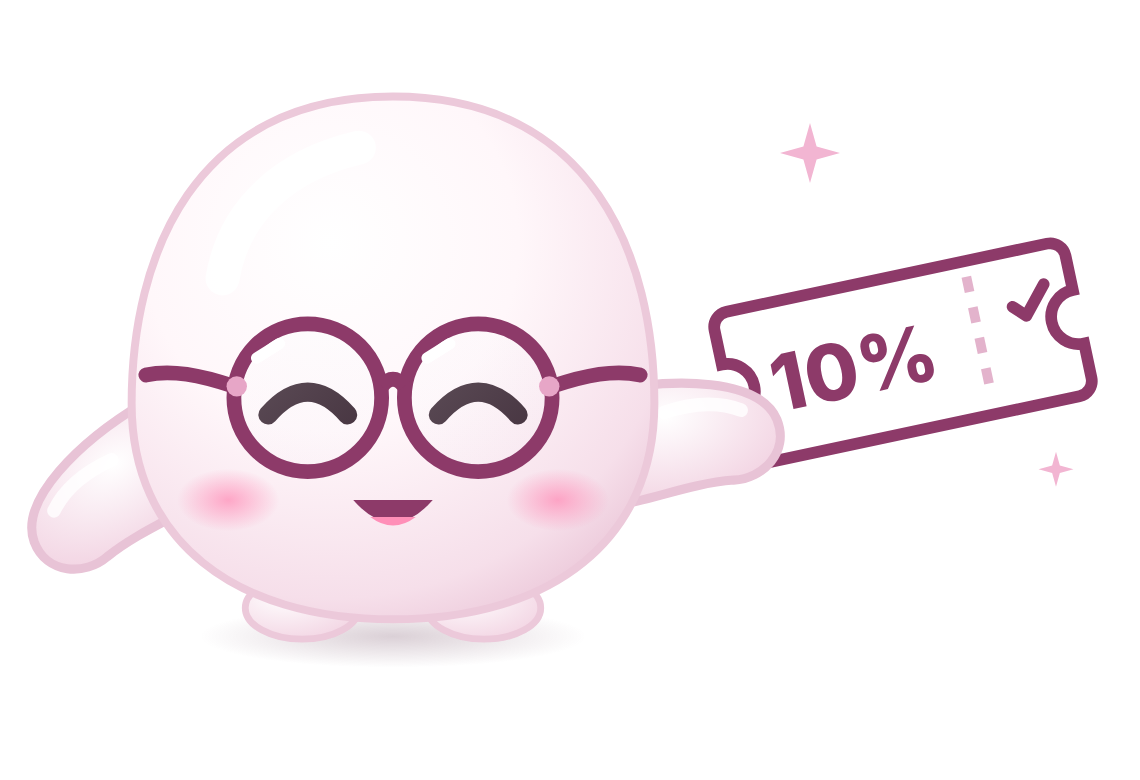
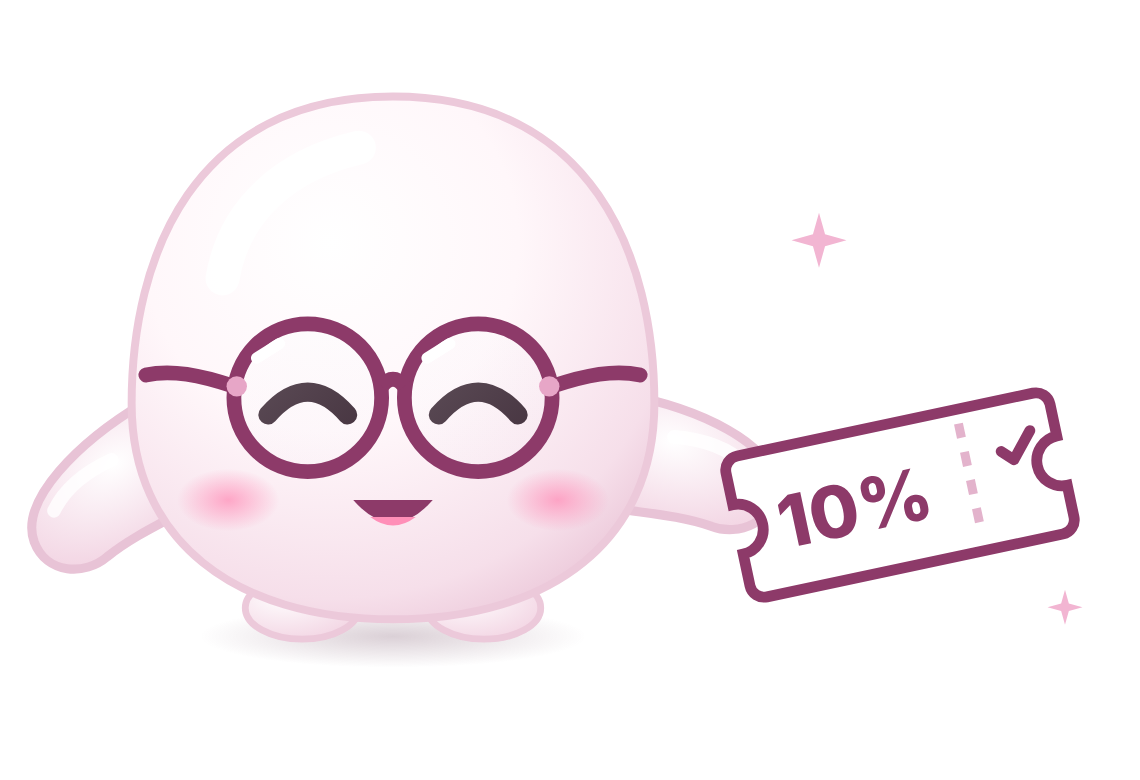
Mochi: regras de pixel no guia; S201 v5
Claude-Session: https://claude.ai/code/session_01Vj5GPR2QjandaFr6ascRKC

Changed region(s): [[0.5526, 0.2769, 0.9825, 0.7692], [0.6754, 0.1538, 0.7368, 0.2154], [0.9211, 0.7692, 0.9518, 0.8]]

diff --git a/work/kit/arte/mochi_render.py b/work/kit/arte/mochi_render.py
@@ -2,14 +2,14 @@ import sys,json
 from playwright.sync_api import sync_playwright
 code=open('/tmp/k/mochi_code.js').read()
 ARMJS="""(a)=>{const M=window.__M,m=document.getElementById('m');m.innerHTML=M.svg;const q=s=>m.querySelector(s);
-function armSet(lado,ang,L){const c=lado<0?'e':'d',B=q('.aB'+c),F=q('.aF'+c),T=M.armT(lado,ang),p=M.ARMP(L);let op=M.cl((1.02-M.dentro(lado,ang,L))/.14,0,1);if(a.frente)op=1;
+function armSet(lado,ang,L){const c=lado<0?'e':'d',B=q('.aB'+c),F=q('.aF'+c),T=M.armT(lado,ang),p=M.ARMP(L);let op=M.cl((1.02-M.dentro(lado,ang,L))/.14,0,1);if(a.frente&&a.frente.indexOf(c)>=0)op=1;
  B.firstChild.setAttribute('d',p);B.lastChild.setAttribute('d',M.ARMH(L));const t=F.firstChild;t.children[0].setAttribute('d',p);t.children[1].setAttribute('d',p);t.children[2].setAttribute('d',M.ARMHF(L));q('.mk'+c).firstChild.setAttribute('d',p);
  B.setAttribute('transform',T);B.style.display=op<1?'':'none';F.firstChild.setAttribute('transform',T);q('.mk'+c).setAttribute('transform',T);F.style.display=op>0?'':'none';F.setAttribute('opacity',op.toFixed(3))}
 armSet(-1,a.e,a.L||30);armSet(1,a.d,a.L||30);
 m.querySelectorAll('.esp').forEach(e=>e.style.display='none');
 if(a.face==='feliz'){m.querySelectorAll('.olhos').forEach(e=>e.setAttribute('opacity','0'));m.querySelectorAll('.olhosF').forEach(e=>e.setAttribute('opacity','1'));m.querySelectorAll('.bW').forEach(e=>e.setAttribute('opacity','0'));m.querySelectorAll('.bF').forEach(e=>e.setAttribute('opacity','1'))}
 if(a.face==='surpresa'){m.querySelectorAll('.bW').forEach(e=>e.setAttribute('opacity','0'));m.querySelectorAll('.bO').forEach(e=>e.setAttribute('opacity','1'))}}"""
-def render(out,face,e,d,extra='',left=10,W=380,H=260,frente=False):
+def render(out,face,e,d,extra='',left=10,W=380,H=260,frente=''):
     with sync_playwright() as pw:
         b=pw.chromium.launch(executable_path='/opt/pw-browsers/chromium',args=['--no-sandbox']);pg=b.new_page(viewport={'width':W,'height':H},device_scale_factor=3)
         pg.set_content(f'<body style="margin:0;background:transparent"><div style="position:relative;width:{W}px;height:{H}px"><div id=m style="position:absolute;left:{left}px;top:10px;width:250px;height:230px"></div>{extra}</div></body>')

diff --git a/docs/MEMORIA-PROJETO.md b/docs/MEMORIA-PROJETO.md
@@ -1912,3 +1912,4 @@ Decisões do dono sobre a tela Venda confirmada (esboço "venda_confirmada_compr
 - 12/11 16:20 ESBOÇO S201 v2 (work/s190/s201_amiga.jpg): Mochi FELIZ com presente '10%' no cartão de indicar (tela de pagamento confirmado) + Mochi SURPRESA (olhos abertos, boca 'o', brilhos) na faixa da amiga 'Sua amiga te deu 10%!'. Mochi desenhada com o próprio desenho do site (sem espelho de testa e sem faixa); arquivos em work/kit/arte/. Aguardando aprovação. Leve 2: vale para 2 leituras diferentes (ou leitura + sol); hoje o cliente só vê no resumo do carrinho (proposta: linha na peça, aviso ao adicionar a 1ª, linha '2ª peça −30%' no item).
 - 12/11 16:25 DONO: presente com forma inapropriada → trocado por CUPOM (ticket branco com borda vinho, '10%' e ✓, picote tracejado) ao lado da Mochi feliz. S201 v3.
 - 12/11 16:35 DONO: Mochi deve ter BRAÇOS (o desenho estático não montava os braços do esqueleto). Corrigido: work/kit/arte/mochi_render.py desenha a Mochi com braços (render(saida, face 'feliz'|'surpresa', ângulo braço esq., dir.)). S201 v4: Mochi feliz estendendo o braço com o cupom 10%; Mochi surpresa com os dois braços para cima. REGRA: Mochi sempre com braços.
+- 12/11 16:45 DONO: Mochi SEMPRE com braços e com as correções de pixel que ele sempre pede, em TODAS as Mochis daqui em diante. Regras consolidadas em docs/DESIGN-SITE-E-APP.md (gota com contorno fechado e união suave, simétricos, nunca tocar hastes/bochechas — 10°–45° atrás do corpo; frente só em gesto de rosto; sem cortado/serrilhado; hastes; sem espelho fora do grau; sem confete; conferir ombros ampliados). S201 v5 refeito com isso.
